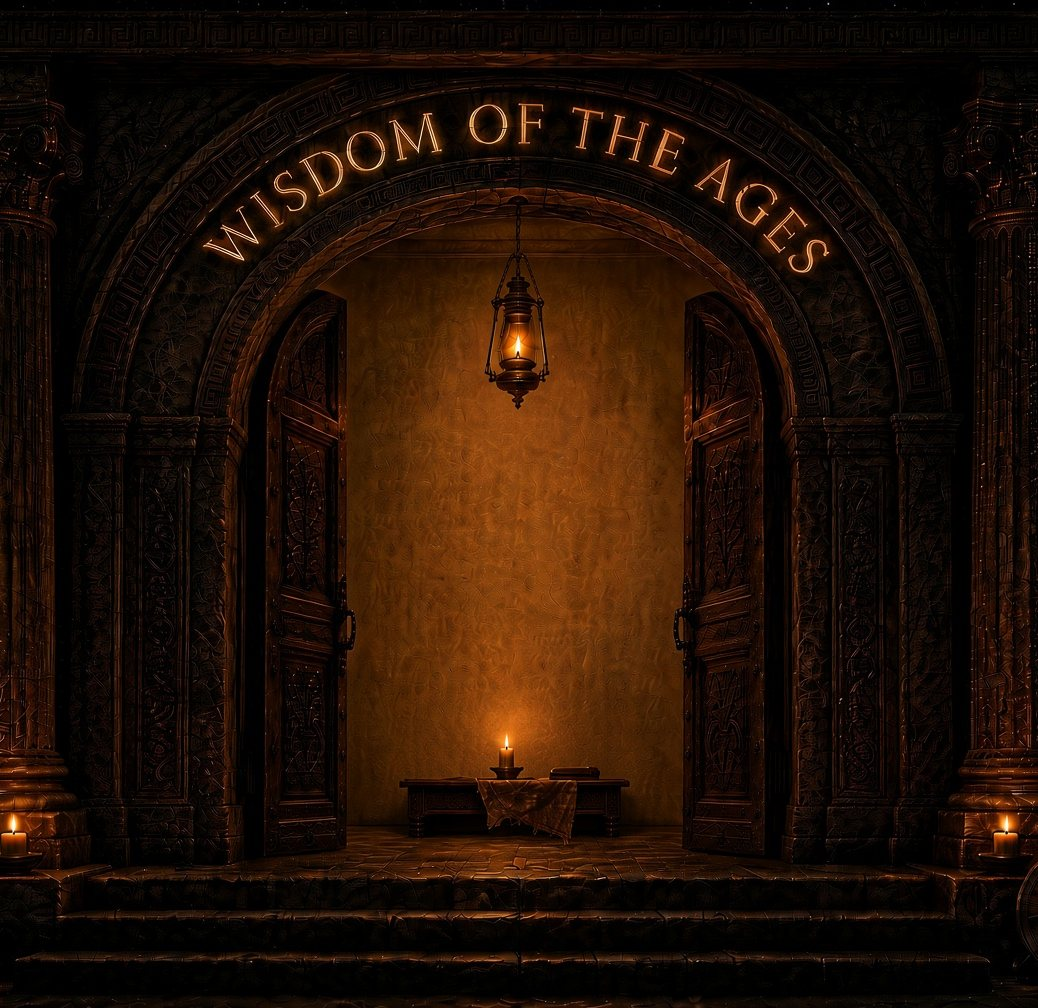
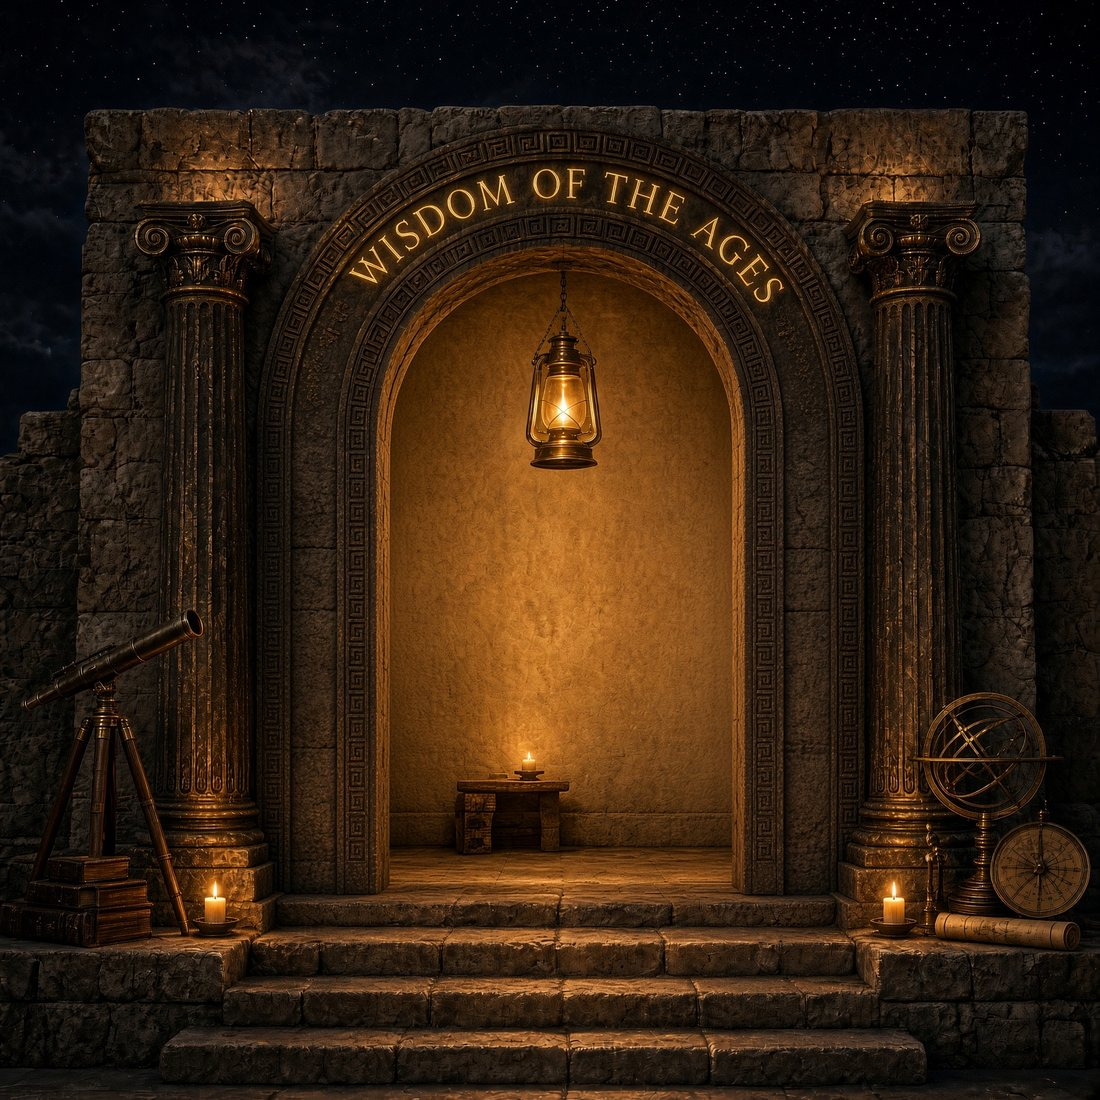
Temple of wisdom: Samadhi's square temple picture (no doors, small lit room, columns and star tools in full); sayings in dark ink on the lit wall with a soft glow behind
Claude-Session: https://claude.ai/code/session_01AAjWxpQhQJfZ44Txoyzs8t

diff --git a/public/site.css b/public/site.css
@@ -1250,28 +1250,28 @@ button.wt-more { cursor: pointer; }
 /* Wisdom tablet as Samadhi's temple of wisdom (Nov 28, 2026): his picture fills the box (full width of the families);
    the sayings glow on the lit back wall of the room, between the lantern and the candle; the button rests on the steps;
    a soft flicker plays on the lantern light. */
-.wisdom-tablet.wt-doorway { position: relative; display: block; padding: 0; min-height: 0; aspect-ratio: 1038 / 1008; background: #000; overflow: hidden; container-type: inline-size; }
+.wisdom-tablet.wt-doorway { position: relative; display: block; padding: 0; min-height: 0; aspect-ratio: 1 / 1; background: #000; overflow: hidden; container-type: inline-size; }
 .wt-door { position: absolute; inset: 0; width: 100%; height: 100%; object-fit: cover; pointer-events: none; }
-.wt-glow { position: absolute; left: 28%; right: 28%; top: 22%; bottom: 14%; pointer-events: none; mix-blend-mode: soft-light;
+.wt-glow { position: absolute; left: 35%; right: 33%; top: 24%; bottom: 20%; pointer-events: none; mix-blend-mode: soft-light;
   background: radial-gradient(ellipse 60% 45% at 50% 22%, rgba(255, 170, 70, .55), rgba(255, 140, 40, 0) 70%), radial-gradient(ellipse 50% 30% at 50% 88%, rgba(255, 170, 70, .45), rgba(255, 140, 40, 0) 70%);
   animation: wt-flicker 5.5s ease-in-out infinite; }
 @keyframes wt-flicker { 0%, 100% { opacity: .75; } 12% { opacity: .95; } 21% { opacity: .7; } 34% { opacity: 1; } 47% { opacity: .82; } 63% { opacity: .96; } 78% { opacity: .72; } 88% { opacity: .9; } }
-.wt-wall { position: absolute; left: 35.6%; right: 35.2%; top: 42.5%; bottom: 29.5%; display: flex; align-items: center; justify-content: center; text-align: center; }
+.wt-wall { position: absolute; left: 37.5%; right: 35.5%; top: 44%; bottom: 32.5%; display: flex; align-items: center; justify-content: center; text-align: center; }
 .wt-doorway .wt-words { max-width: none; width: 100%; }
-.wt-doorway .wt-words::before { display: none; }
-.wt-doorway .wt-item blockquote { font-family: Georgia, "Times New Roman", serif; font-style: italic; font-size: 2.05cqw; line-height: 1.35; color: #ffe7b0; text-shadow: 0 0 .5cqw rgba(255, 190, 90, .55), 0 .1cqw .2cqw rgba(30, 12, 0, .95); }
-.wt-doorway .wt-item figcaption { margin-top: .8cqw; font-size: 1.4cqw; color: #f3cf8a; font-style: normal; font-family: var(--display); letter-spacing: .04em; text-shadow: 0 .1cqw .2cqw rgba(30, 12, 0, .95); }
+.wt-doorway .wt-words::before { display: block; inset: -14% -8%; background: radial-gradient(ellipse at center, rgba(255, 224, 160, .42) 0%, rgba(255, 210, 140, .18) 55%, rgba(255, 200, 120, 0) 78%); }
+.wt-doorway .wt-item blockquote { font-family: Georgia, "Times New Roman", serif; font-style: italic; font-size: 2.05cqw; line-height: 1.35; color: #2b1505; text-shadow: 0 .12cqw 0 rgba(255, 226, 160, .45), 0 0 .8cqw rgba(255, 210, 130, .35); }
+.wt-doorway .wt-item figcaption { margin-top: .8cqw; font-size: 1.45cqw; color: #3a1f08; font-weight: 600; font-style: normal; font-family: var(--display); letter-spacing: .04em; text-shadow: 0 .1cqw 0 rgba(255, 226, 160, .4); }
 .wt-doorway .wt-more { position: absolute; left: 50%; transform: translateX(-50%); bottom: 3.2%; margin: 0; font-size: 1.6cqw; padding: .9cqw 1.8cqw; white-space: nowrap; }
 /* Home: the temple sits between Sacred Sciences and History & Origins, beside the two tall cards. */
 @media (min-width: 1100px) { .family-grid > .wisdom-tablet.wt-doorway { grid-column: 2 / span 3; align-self: center; } }
 @media (min-width: 700px) and (max-width: 1099px) { .family-grid > .wisdom-tablet.wt-doorway { max-width: 760px; width: 100%; justify-self: center; } }
 .tab-flank-text .wisdom-tablet.wt-doorway, .teachings-heading .wisdom-tablet.wt-doorway, .banner .wisdom-tablet.wt-doorway { max-width: 760px; min-height: 0; }
 @media (max-width: 699px) {
-  .wisdom-tablet.wt-doorway { aspect-ratio: 730 / 1008; }
+  .wisdom-tablet.wt-doorway { aspect-ratio: 760 / 1288; }
   .wt-glow { left: 0; right: 0; }
-  .wt-wall { left: 27.5%; right: 27.5%; }
+  .wt-wall { left: 30%; right: 27%; top: 39%; bottom: 29%; }
   .wt-doorway .wt-item blockquote { font-size: 3.1cqw; }
-  .wt-doorway .wt-item figcaption { font-size: 2.3cqw; margin-top: 1.2cqw; }
+  .wt-doorway .wt-item figcaption { font-size: 2.4cqw; margin-top: 1.2cqw; }
   .wt-doorway .wt-more { font-size: 2.9cqw; padding: 1.4cqw 2.6cqw; bottom: 3%; }
 }
 @media (prefers-reduced-motion: reduce) { .wt-glow { animation: none; } }

diff --git a/lib/pages.js b/lib/pages.js
@@ -213,10 +213,10 @@ function banner({ scene, eyebrow, title, lead, cls = "" }) {
 function wisdomTablet() {
   const all = WISDOM_SAYINGS;
   const items = all.map(([t, src], i) => `<figure class="wt-item${i ? "" : " is-on"}"${i ? ' aria-hidden="true"' : ""}><blockquote>${e(t)}</blockquote><figcaption>${e(src)}</figcaption></figure>`).join("");
-  // Samadhi's temple of wisdom (Nov 28, 2026): an arch carved "Wisdom of the Ages" between two columns, the doors open
-  // on a room lit by a hanging lantern and a candle; the sayings glow on the room's back wall, the button rests on the
+  // Samadhi's temple of wisdom (Nov 28, 2026): an arch carved "Wisdom of the Ages" between two columns, the arch open
+  // on a small room lit by a hanging lantern and a candle; the sayings glow on the room's back wall, the button rests on the
   // steps, and old star tools stand outside (a telescope, an armillary sphere, an astrolabe, books and a star map).
-  return `<aside class="wisdom-tablet wt-doorway card" aria-label="Wisdom of the Ages: a saying of wisdom"><picture><source media="(max-width: 699px)" srcset="/images/wisdom-doorway-phone.jpg" width="730" height="1008"><img class="wt-door" src="/images/wisdom-doorway.jpg" width="1038" height="1008" alt="An ancient temple doorway at night under the stars: an arch carved Wisdom of the Ages between two columns, its doors open on a room lit by a hanging lantern and a candle; an old brass telescope and books on the left, an armillary sphere, astrolabe and star map on the right" loading="lazy" decoding="async"></picture><div class="wt-glow" aria-hidden="true"></div><div class="wt-wall"><div class="wt-words" data-wisdom-tablet>${items}</div></div><button type="button" class="wt-more" data-wt-next>Another word of wisdom <span aria-hidden="true">›</span></button></aside>`;
+  return `<aside class="wisdom-tablet wt-doorway card" aria-label="Wisdom of the Ages: a saying of wisdom"><picture><source media="(max-width: 699px)" srcset="/images/wisdom-doorway-phone.jpg" width="760" height="1288"><img class="wt-door" src="/images/wisdom-doorway.jpg" width="1100" height="1100" alt="An ancient temple doorway at night under the stars: an arch carved Wisdom of the Ages between two columns, open on a small room lit by a hanging lantern and a candle; an old brass telescope and books on the left, an armillary sphere, astrolabe and star map on the right" loading="lazy" decoding="async"></picture><div class="wt-glow" aria-hidden="true"></div><div class="wt-wall"><div class="wt-words" data-wisdom-tablet>${items}</div></div><button type="button" class="wt-more" data-wt-next>Another word of wisdom <span aria-hidden="true">›</span></button></aside>`;
 }
 
 function home() {
